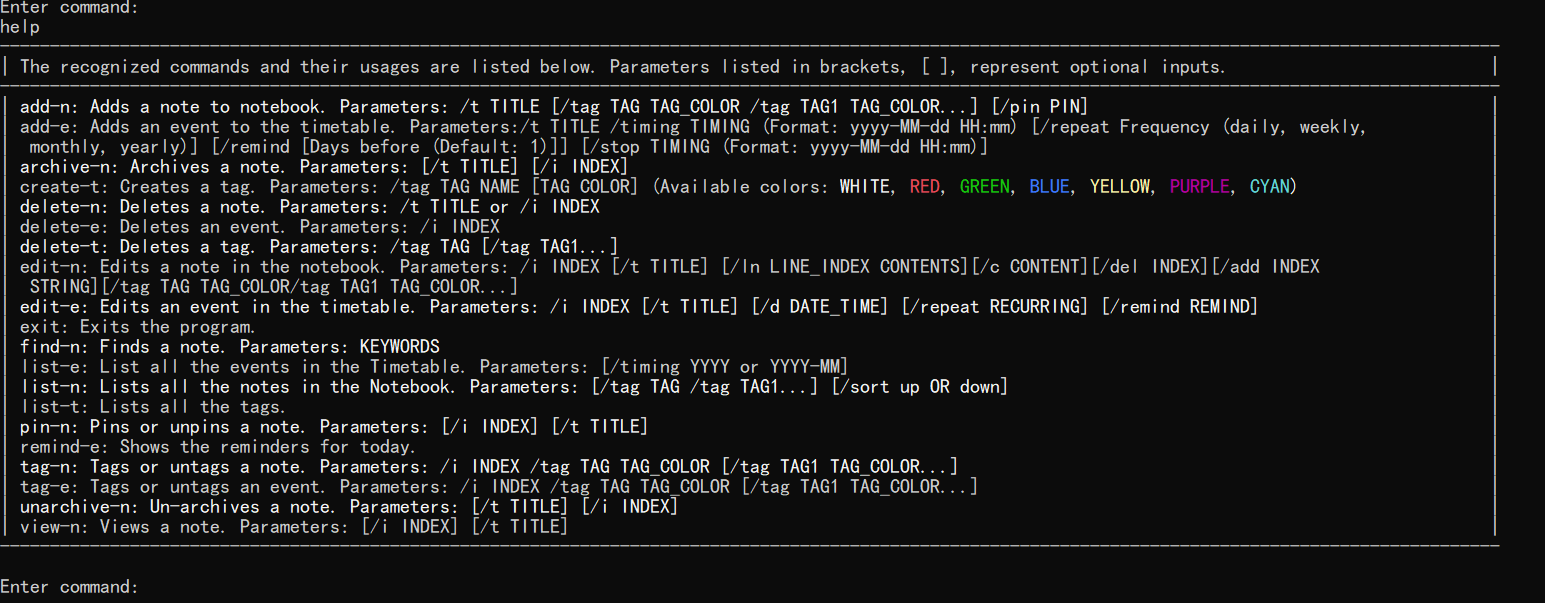
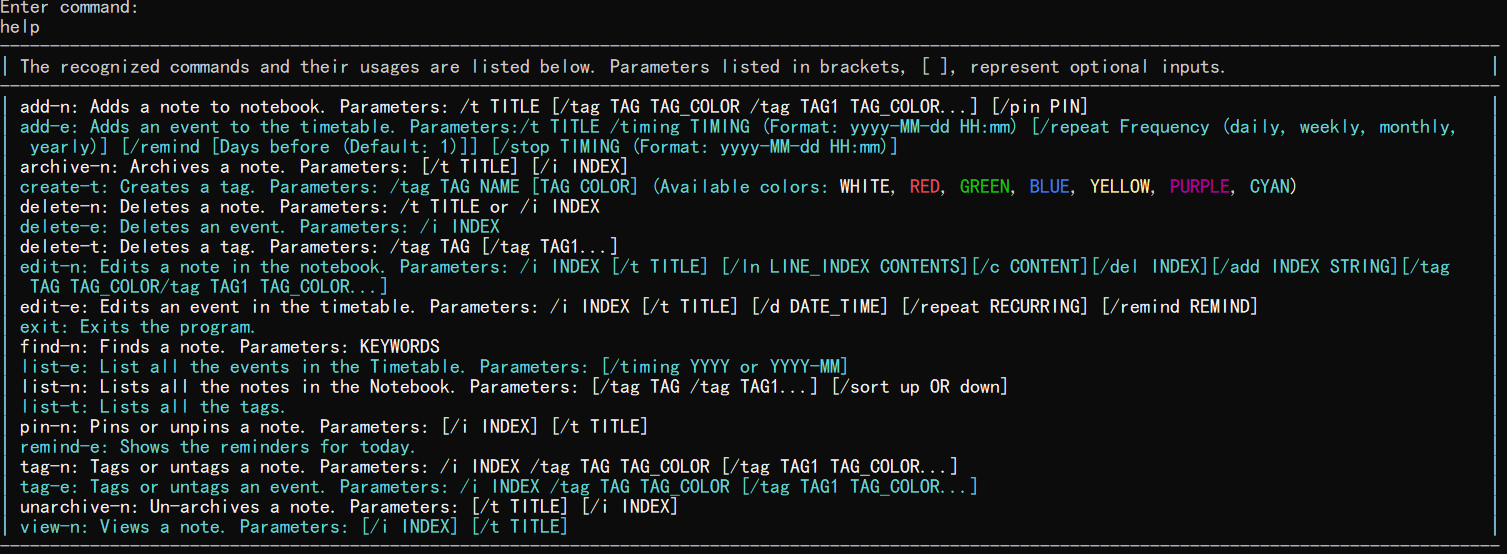
Fix some JColor display issue. Updated User Guide and developer guide

Changed region(s): [[0.0, 0.0, 0.998, 1.0]]

diff --git a/src/main/java/seedu/notus/ui/Formatter.java b/src/main/java/seedu/notus/ui/Formatter.java
@@ -32,6 +32,8 @@ public class Formatter {
     private static final String EMPTY_SPACE = " ";
     private static final String CONTINUATION = "...";
     private static final String TITLE = "Title: ";
+    private static final String NOTE_INDEX = "Note index: ";
+    private static final String CONTENT = "Content: ";
     private static final char EMPTY_CHAR = ' ';
 
     /**
@@ -74,41 +76,8 @@ public class Formatter {
      * @param notes ArrayList of notes to obtain note title/tags from
      * @return noteString StringBuilder containing the notes ready to be printed
      */
-    public static String formatNotes(String header, ArrayList<Note> notes) {
-        String formattedString = "";
-        int i = 1;
-
-        formattedString = formattedString.concat(generatesHeader(header));
-
-        for (Note note: notes) {
-            String colorText = colorize("Note Index: " + i + ". " + TITLE + note.getTitle() + EMPTY_SPACE
-                    + note.getTagsName(), Attribute.BRIGHT_CYAN_TEXT());
-            formattedString = formattedString.concat(encloseRow(colorText));
-
-            int truncatedContentLength = Math.min(note.getContent().get(0).length(), CONTENT_CUTOFF);
-
-            String truncatedContent = note.getContent()
-                    .get(0)
-                    .substring(0, truncatedContentLength)
-                    .concat(CONTINUATION);
-            formattedString = formattedString.concat(encloseRow(EMPTY_SPACE + truncatedContent));
-            formattedString = formattedString.concat(generatesRowSplit());
-
-            i++;
-        }
-        return encloseTopAndBottom(formattedString);
-    }
-
-    //@@author R-Ramana
-    /**
-     * Method compiles the ArrayList items and appends the items to a String.
-     *
-     * @param notes ArrayList of notes to obtain note title/tags from
-     * @return noteString StringBuilder containing the notes ready to be printed
-     */
     public static String formatNotes(String header, ArrayList<Note> notes, Notebook notebook) {
         String formattedString = "";
-        int i = 1;
         int colorGold = 94;
         int colorBrown = 95;
 
@@ -117,8 +86,19 @@ public class Formatter {
         for (Note note: notes) {
             String colorIndex = colorize("Note Index: " + notebook.getNoteIndex(note),
                     Attribute.TEXT_COLOR(colorBrown));
+            int noteIndex = notebook.getNoteIndex(note);
+
+            if (noteIndex == 0) {
+                noteIndex = notebook.getArchiveNoteIndex(note);
+            }
+
+            colorIndex = colorize(NOTE_INDEX + noteIndex, Attribute.CYAN_TEXT());
+
             String colorTitle = colorize(TITLE + note.getTitle() + EMPTY_SPACE
                     + note.getTagsName(), Attribute.TEXT_COLOR(colorGold));
+            colorTitle = colorize(TITLE + note.getTitle() + EMPTY_SPACE + note.getTagsName(),
+                    Attribute.YELLOW_TEXT());
+
             formattedString = formattedString.concat(encloseRow(colorIndex)).concat(encloseRow(colorTitle));
 
             int truncatedContentLength = Math.min(note.getContent().get(0).length(), CONTENT_CUTOFF);
@@ -127,10 +107,8 @@ public class Formatter {
                     .get(0)
                     .substring(0, truncatedContentLength)
                     .concat(CONTINUATION);
-            formattedString = formattedString.concat(encloseRow(EMPTY_SPACE + truncatedContent));
-            formattedString = formattedString.concat(generatesRowSplit());
-
-            i++;
+            formattedString = formattedString.concat(encloseRow(CONTENT + truncatedContent))
+                    .concat(generatesRowSplit());
         }
         return encloseTopAndBottom(formattedString);
     }
@@ -139,6 +117,7 @@ public class Formatter {
     public static String formatNote(String header, Note note) {
         String formattedString = "";
 
+        header = colorize(header, Attribute.GREEN_TEXT());
         header = header.concat(note.getTitle() + " " + note.getTagsName());
 
         formattedString = formattedString.concat(generatesHeader(header));

diff --git a/src/main/java/seedu/notus/command/ListNoteCommand.java b/src/main/java/seedu/notus/command/ListNoteCommand.java
@@ -113,7 +113,7 @@ public class ListNoteCommand extends Command {
         // no sorting, no viewing, no filtering of notes in the archived notebook.
         if (isArchived) {
             notes = notebook.getArchivedNotes();
-            return formatNotes(ARCHIVE_NOTES_MESSAGE, notes);
+            return formatNotes(ARCHIVE_NOTES_MESSAGE, notes, notebook);
         }
 
         // if no /archive or /tags and there is no pinned notes at all this if-else block will be executed
@@ -130,7 +130,7 @@ public class ListNoteCommand extends Command {
                 return Formatter.formatString(COMMAND_UNSUCCESSFUL_MESSAGE_EMPTY_NOTEBOOK);
             }
 
-            return formatNotes(COMMAND_SUCCESSFUL_MESSAGE, notes);
+            return formatNotes(COMMAND_SUCCESSFUL_MESSAGE, notes, notebook);
         }
 
         // if no /archive or /tags and there are pinned notes this if-else block will be executed
@@ -205,7 +205,7 @@ public class ListNoteCommand extends Command {
             } else {
                 sortedTaggedNotes = notes;
             }
-            return formatNotes(COMMAND_SUCCESSFUL_MESSAGE, sortedTaggedNotes);
+            return formatNotes(COMMAND_SUCCESSFUL_MESSAGE, sortedTaggedNotes, notebook);
         }
 
         // if no /archive and there are both pinned notes and /tags
@@ -223,6 +223,6 @@ public class ListNoteCommand extends Command {
             return formatNotes(PINNED_NOTES_MESSAGE, UNPINNED_NOTES_MESSAGE, pinned, unpinned, notebook);
         }
 
-        return formatNotes(COMMAND_SUCCESSFUL_MESSAGE, notes);
+        return formatNotes(COMMAND_SUCCESSFUL_MESSAGE, notes, notebook);
     }
 }

diff --git a/src/main/java/seedu/notus/command/FindCommand.java b/src/main/java/seedu/notus/command/FindCommand.java
@@ -59,7 +59,7 @@ public class FindCommand extends Command {
             return Formatter.formatString(COMMAND_UNSUCCESSFUL_MESSAGE);
         }
         LOGGER.log(Level.INFO, "Filtered notes will be returned.");
-        return Formatter.formatNotes(COMMAND_SUCCESSFUL_MESSAGE, filteredNotes);
+        return Formatter.formatNotes(COMMAND_SUCCESSFUL_MESSAGE, filteredNotes, notebook);
     }
 
     public void setupLogger() {

diff --git a/src/main/java/seedu/notus/command/HelpCommand.java b/src/main/java/seedu/notus/command/HelpCommand.java
@@ -61,7 +61,8 @@ public class HelpCommand extends Command {
     public static Attribute getColor(boolean toggleColor) {
         int colorGold = 94;
         if (toggleColor) {
-            return Attribute.TEXT_COLOR(colorGold);
+            //return Attribute.TEXT_COLOR(colorGold);
+            return Attribute.BRIGHT_CYAN_TEXT();
         }
         return Attribute.BRIGHT_WHITE_TEXT();
     }

diff --git a/src/test/java/seedu/notus/command/FindCommandTest.java b/src/test/java/seedu/notus/command/FindCommandTest.java
@@ -64,7 +64,7 @@ class FindCommandTest {
         notes.add(testNote1);
         notes.add(testNote2);
 
-        String expected = Formatter.formatNotes(COMMAND_SUCCESSFUL_MESSAGE, notes);
+        String expected = Formatter.formatNotes(COMMAND_SUCCESSFUL_MESSAGE, notes, notebook);
         String result = getCommandExecutionString(notebook, keyword);
 
         assertEquals(expected, result);

diff --git a/src/main/java/seedu/notus/data/notebook/Notebook.java b/src/main/java/seedu/notus/data/notebook/Notebook.java
@@ -387,6 +387,10 @@ public class Notebook {
         return notes.indexOf(note) + 1;
     }
 
+    public int getArchiveNoteIndex(Note note) {
+        return archivedNotes.indexOf(note) + 1;
+    }
+
     public int getArchivedNoteSize() {
         return archivedNotes.size();
     }

diff --git a/docs/UserGuide.md b/docs/UserGuide.md
@@ -92,8 +92,7 @@ Example of usage:
 Expected output: 
 
 <p align="center">
-   <img alt="SystemExceptionEnum1" src="screenshots/help.png"/>
-   <br><em>Figure #</em>
+   <img alt="help" src="screenshots/help.png"/>
 </p>
 
 ### <a id="add-n"><ins>3.2 Add Note:</ins> `add-n`</a>
@@ -131,8 +130,7 @@ Enter Note:
 Expected output:
 
 <p align="center">
-   <img alt="SystemExceptionEnum1" src="screenshots/addNote.png"/>
-   <br><em>Figure #</em>
+   <img alt="addNote" src="screenshots/addNote.png"/>
 </p>
 
 ### <a id="list-n"><ins>3.3 List Notes:</ins> `list-n`</a>
@@ -159,8 +157,7 @@ Example of usage:
 Expected output:
 
 <p align="center">
-   <img alt="SystemExceptionEnum1" src="screenshots/listNote.png"/>
-   <br><em>Figure #</em>
+   <img alt="listNote" src="screenshots/listNote.png"/>
 </p>
 
 ### <a id="view-n"><ins>3.4 View Note:</ins> `view-n`</a>
@@ -175,15 +172,18 @@ Example of usage:
 
 `view-n /i 1`
 
-`view-n /i 1 /t JavaDocs`
+`view-n /t JavaDocs`
 
 Expected output:
 
+<p align="center">
+   <img alt="viewNote" src="screenshots/viewNote.png"/>
+</p>
 
 #### <a id="edit-n">3.5 Edit Note: `edit-n`</a>
 Edits an existing note.
 
-Format: `edit-n /i INDEX [/t TITLE] [/ln LINE] [/c CONTENT] [/tag TAG_1] [/tag TAG_2]...`
+Format: `edit-n /i INDEX [/t TITLE] [/del LINE] [/add CONTENT] [/tag TAG_1] [/tag TAG_2]...`
 
 - Edits a note at the specified INDEX. The index refers to the index number shown in the displayed note list. The index must be a **positive integer** (1, 2, 3, …). 
 - At least one of the optional fields must be provided.
@@ -201,6 +201,7 @@ Example of usage:
 Expected output:
 
 
+
 ### <a id="find-n"><ins>3.6 Find Notes:</ins> `find-n`</a>
 Finds the notes and return a list of notes that contain the keyword(s) in the title.
 
@@ -214,6 +215,9 @@ Example of usage:
 
 Expected output:
 
+<p align="center">
+   <img alt="findNote" src="screenshots/findNote.png"/>
+</p>
 
 ### <a id="pin-n"><ins>3.7 Pin Note:</ins> `pin-n`</a>
 Pins an unpinned note to the top of the note list or unpin a pinned note.
@@ -231,6 +235,9 @@ Example of usage:
 
 Expected output:
 
+<p align="center">
+   <img alt="pinNote" src="screenshots/pinNote.png"/>
+</p>
 
 ### <a id="archive-n"><ins>3.8 Archive Note:</ins> `archive-n`</a>
 Archives a note.
@@ -250,6 +257,9 @@ Example of usage:
 
 Expected output:
 
+<p align="center">
+   <img alt="archiveNote" src="screenshots/archiveNote.png"/>
+</p>
 
 ### <a id="unarchive-n"><ins>3.9 Unarchive Note:</ins> `unarchive-n`</a>
 Unarchives a note.
@@ -267,6 +277,9 @@ Example of usage:
 
 Expected output:
 
+<p align="center">
+   <img alt="unarchiveNote" src="screenshots/unarchiveNote.png"/>
+</p>
 
 ### <a id="delete-n"><ins>3.10 Delete note:</ins> `delete-n`</a>
 Deletes an existing note.
@@ -280,12 +293,15 @@ Format: `delete-n [/i INDEX] [t/TITLE]`
 
 Example of usage: 
 
-`delete-n i/ 1`
+`delete-n /i 1`
 
-`delete-n /t JavaDocs Notes`
+`delete-n /t JavaDocs`
 
 Expected output:
 
+<p align="center">
+   <img alt="deleteNote" src="screenshots/deleteNote.png"/>
+</p>
 
 ### <a id="create-t"><ins>3.11 Create Tags:</ins> `create-t`</a>
 Create tags.
@@ -308,6 +324,9 @@ Example of usage:
 
 Expected output:
 
+<p align="center">
+   <img alt="createTag" src="screenshots/createTag.png"/>
+</p>
 
 ### <a id="list-t"><ins>3.12 List Tags:</ins> `list-t`</a>
 Shows a list of tags that have been created.
@@ -317,6 +336,10 @@ Example of usage:
 `list-t`
 
 Expected output:
+
+<p align="center">
+   <img alt="listTag" src="screenshots/listTag.png"/>
+</p>
 
 ### <a id="tag-n"><ins>3.13 Tag/Untag Notes:</ins> `tag-n`</a>
 Tags or untags a note with the given tag name.
@@ -335,6 +358,10 @@ Example of usage:
 `tag-n /i 1 /tag CS2113 /tag important`
 
 Expected output:
+
+<p align="center">
+   <img alt="tagAndUntag" src="screenshots/tagAndUntag.png"/>
+</p>
 
 ### <a id="tag-e"><ins>3.14 Tag/Untag Events:</ins> `tag-e`</a>
 Tags or untags an event with the given tag name.
@@ -370,6 +397,9 @@ Example of usage:
 
 Expected output:
 
+<p align="center">
+   <img alt="deleteTag" src="screenshots/deleteTag.png"/>
+</p>
 
 ### <a id="add-e"><ins>3.16 Add Event:</ins> `add-e`</a>
 Adds an event to the list.
@@ -385,6 +415,7 @@ Example of usage:
 `Add-e /t Flag day /d 14-09-2020 18:58:17`
 
 Expected output:
+
 
 
 ### <a id="edit-e"><ins>3.17 Edit Event:</ins> `edit-e`</a>
